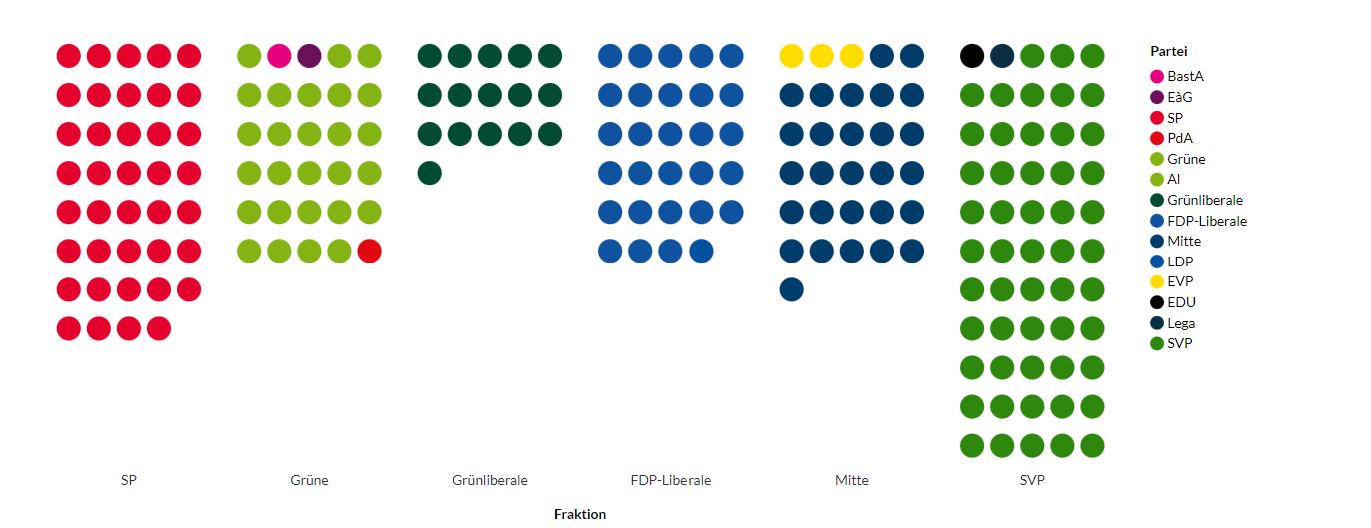
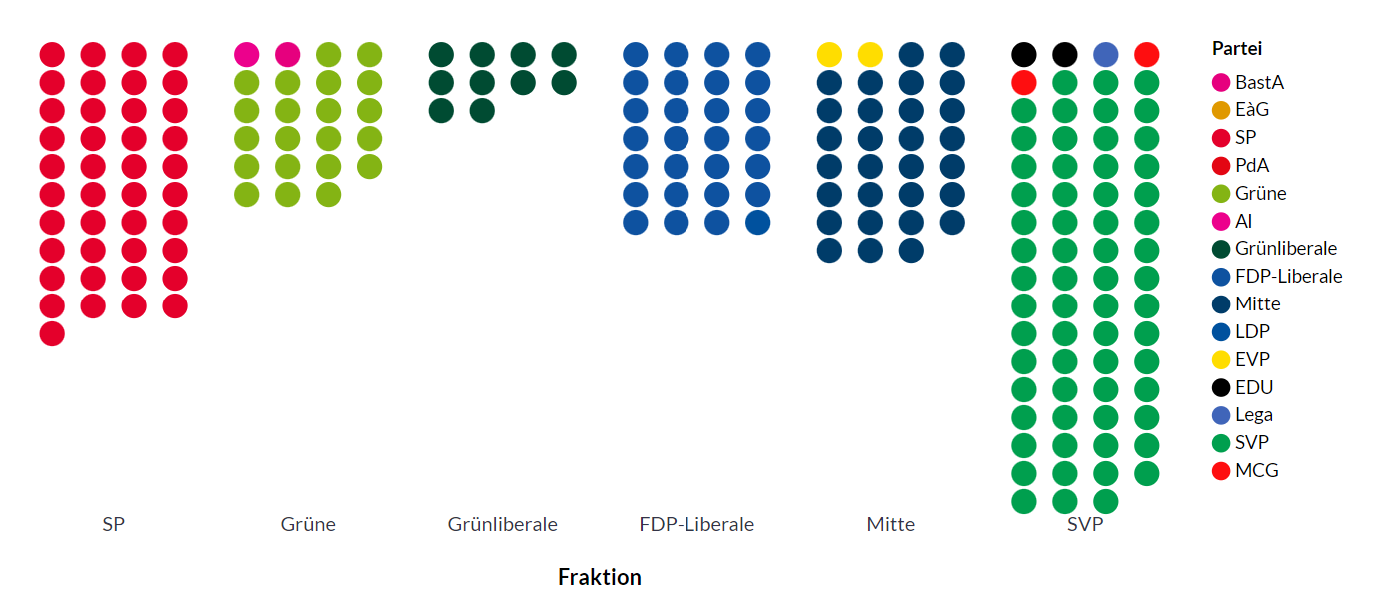
Fix legend, add new social img

diff --git a/src/components/TheParliament.vue b/src/components/TheParliament.vue
@@ -494,7 +494,7 @@ export default {
             legendKeys = legendKeys.filter((item) => item !== "FRAKTIONSLOS");
           }
 
-          if (this.selectedCouncil === "N" && this.selectedOrder === "party") {
+          if (this.selectedCouncil === "N" && (this.selectedOrder === "party" || this.selectedOrder === "firstName")) {
             legendKeys = legendKeys.filter((item) => item !== "unknown");
           }
 
